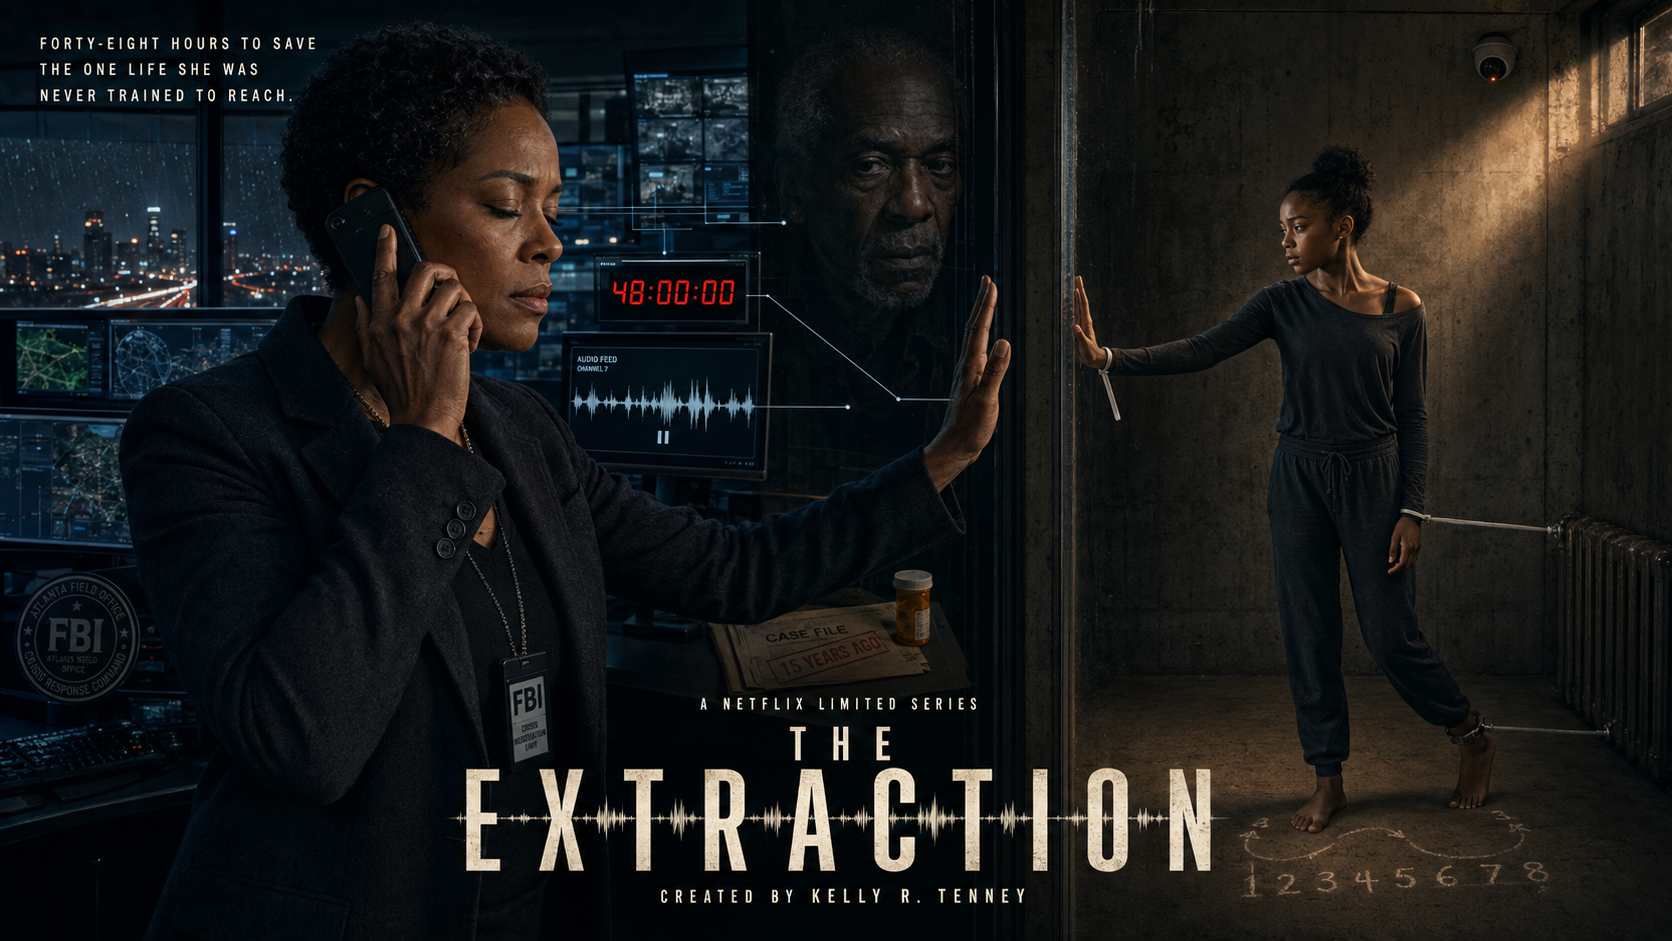
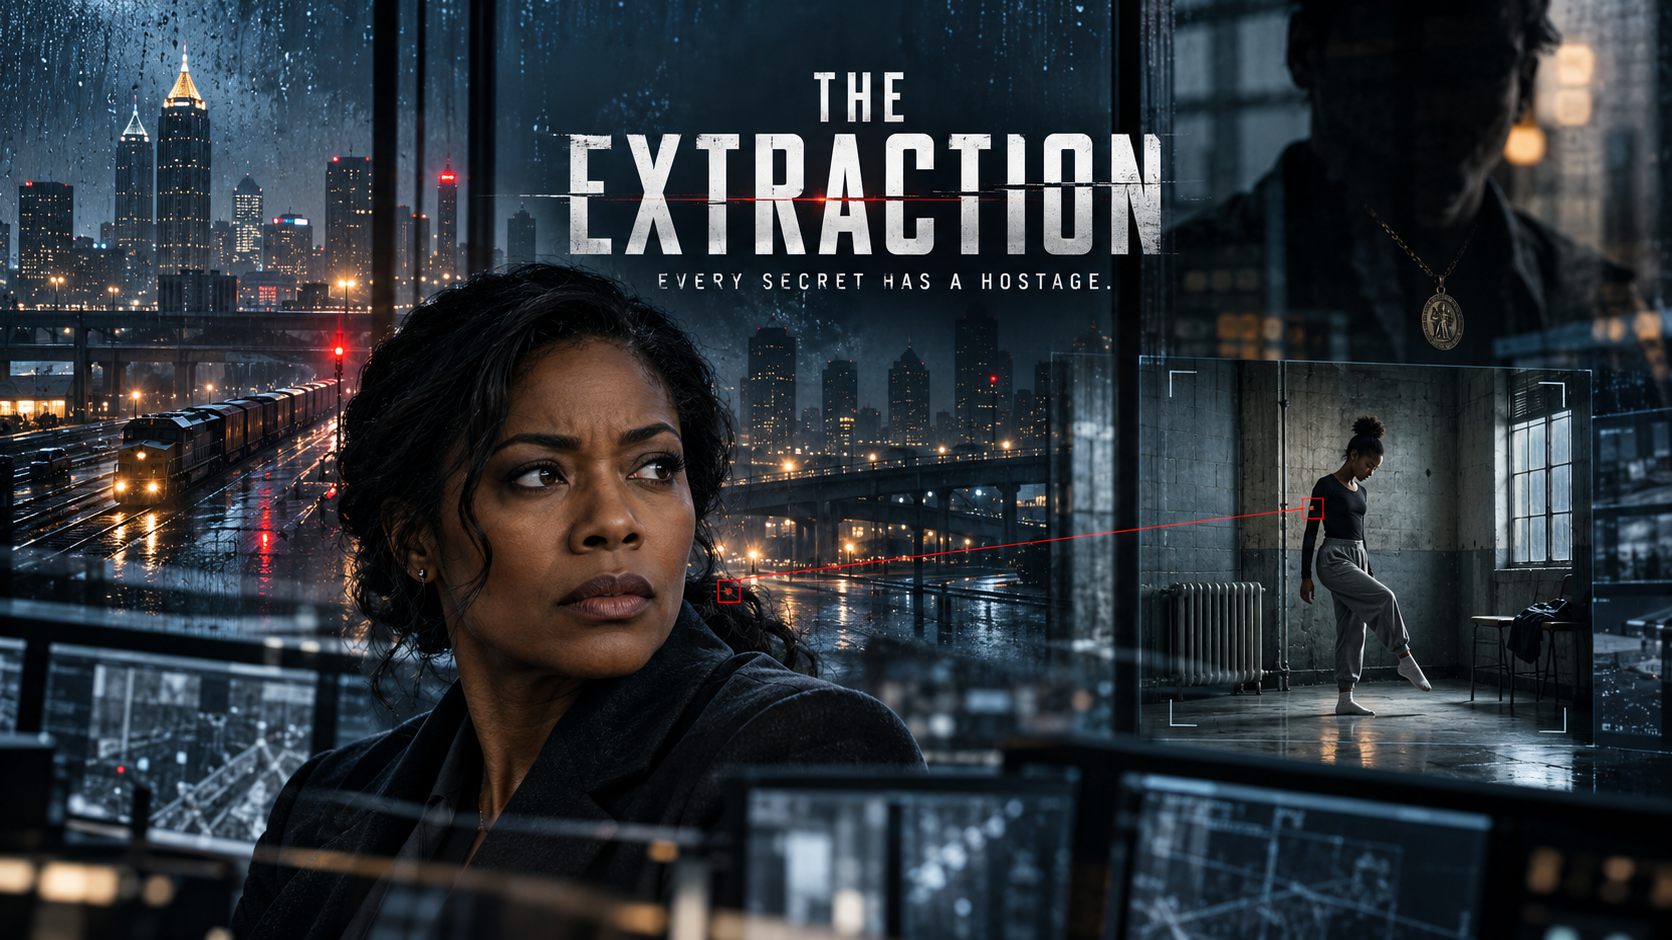
Add project poster artwork

diff --git a/slate.html b/slate.html
@@ -793,7 +793,7 @@
             <input type="checkbox" class="compare-checkbox" id="cmp-the-extraction" />
             <label class="compare-label" for="cmp-the-extraction" title="Add to compare">&#10003;</label>
           </div>
-          <img src="images/the-extraction-poster.png" alt="The Extraction poster featuring a hostage negotiator and her abducted daughter" loading="lazy" />
+          <img src="images/the-extraction-poster.png" alt="The Extraction poster" loading="lazy" />
         </div>
         <div class="card__body">
           <div class="card__meta"><span class="card__genre">Psychological Thriller</span><span class="card__meta-sep"></span><span class="card__format">Limited Series</span></div>
@@ -1646,12 +1646,12 @@
       </article>
 
       <article class="project-card" data-title="Fort Silence" data-platform="premium-streaming,specialty-feature" data-format="feature" data-genre="military-investigative-thriller" data-status="development" data-priority="3">
-        <div class="card__image-wrap card__image-wrap--ledger">
+        <div class="card__image-wrap">
           <div class="compare-checkbox-wrap">
             <input type="checkbox" class="compare-checkbox" id="cmp-new-2" />
             <label class="compare-label" for="cmp-new-2" title="Add to compare">&#10003;</label>
           </div>
-          <div class="ledger-art"><span>NCCA</span><strong>Fort Silence</strong><small>Original project</small></div>
+          <img src="images/fort-silence-poster.png" alt="Fort Silence poster" loading="lazy" />
         </div>
         <div class="card__body">
           <div class="card__meta"><span class="card__genre">Military Investigative Thriller</span><span class="card__meta-sep"></span><span class="card__format">Feature</span></div>
@@ -1664,12 +1664,12 @@
       </article>
 
       <article class="project-card" data-title="Last Exit on 285" data-platform="bet" data-format="feature" data-genre="action-thriller" data-status="development" data-priority="3">
-        <div class="card__image-wrap card__image-wrap--ledger">
+        <div class="card__image-wrap">
           <div class="compare-checkbox-wrap">
             <input type="checkbox" class="compare-checkbox" id="cmp-new-3" />
             <label class="compare-label" for="cmp-new-3" title="Add to compare">&#10003;</label>
           </div>
-          <div class="ledger-art"><span>NCCA</span><strong>Last Exit on 285</strong><small>Original project</small></div>
+          <img src="images/last-exit-on-285-poster.png" alt="Last Exit on 285 poster" loading="lazy" />
         </div>
         <div class="card__body">
           <div class="card__meta"><span class="card__genre">Action Thriller</span><span class="card__meta-sep"></span><span class="card__format">Feature</span></div>
@@ -1682,12 +1682,12 @@
       </article>
 
       <article class="project-card" data-title="RSVP Clause" data-platform="netflix" data-format="feature" data-genre="romantic-comedy" data-status="development" data-priority="3">
-        <div class="card__image-wrap card__image-wrap--ledger">
+        <div class="card__image-wrap">
           <div class="compare-checkbox-wrap">
             <input type="checkbox" class="compare-checkbox" id="cmp-new-4" />
             <label class="compare-label" for="cmp-new-4" title="Add to compare">&#10003;</label>
           </div>
-          <div class="ledger-art"><span>NCCA</span><strong>RSVP Clause</strong><small>Original project</small></div>
+          <img src="images/rsvp-clause-poster.png" alt="RSVP Clause poster" loading="lazy" />
         </div>
         <div class="card__body">
           <div class="card__meta"><span class="card__genre">Romantic Comedy</span><span class="card__meta-sep"></span><span class="card__format">Feature</span></div>
@@ -1718,12 +1718,12 @@
       </article>
 
       <article class="project-card" data-title="The Cookout Confession" data-platform="bet,hbo,hulu" data-format="feature" data-genre="ensemble-dramedy" data-status="development" data-priority="3">
-        <div class="card__image-wrap card__image-wrap--ledger">
+        <div class="card__image-wrap">
           <div class="compare-checkbox-wrap">
             <input type="checkbox" class="compare-checkbox" id="cmp-new-6" />
             <label class="compare-label" for="cmp-new-6" title="Add to compare">&#10003;</label>
           </div>
-          <div class="ledger-art"><span>NCCA</span><strong>The Cookout Confession</strong><small>Original project</small></div>
+          <img src="images/the-cookout-confession-poster.png" alt="The Cookout Confession poster" loading="lazy" />
         </div>
         <div class="card__body">
           <div class="card__meta"><span class="card__genre">Ensemble Dramedy</span><span class="card__meta-sep"></span><span class="card__format">Feature</span></div>
@@ -1736,12 +1736,12 @@
       </article>
 
       <article class="project-card" data-title="The Layover" data-platform="tv-one,bet" data-format="mow" data-genre="locked-room-suspense-thriller" data-status="development" data-priority="3">
-        <div class="card__image-wrap card__image-wrap--ledger">
+        <div class="card__image-wrap">
           <div class="compare-checkbox-wrap">
             <input type="checkbox" class="compare-checkbox" id="cmp-new-7" />
             <label class="compare-label" for="cmp-new-7" title="Add to compare">&#10003;</label>
           </div>
-          <div class="ledger-art"><span>NCCA</span><strong>The Layover</strong><small>Original project</small></div>
+          <img src="images/the-layover-poster.png" alt="The Layover poster" loading="lazy" />
         </div>
         <div class="card__body">
           <div class="card__meta"><span class="card__genre">Locked-Room Suspense Thriller</span><span class="card__meta-sep"></span><span class="card__format">MOW</span></div>
@@ -1754,12 +1754,12 @@
       </article>
 
       <article class="project-card" data-title="The Perfect Assistant" data-platform="bet,lifetime,tv-one,allblk,tubi" data-format="feature" data-genre="psychological-thriller" data-status="development" data-priority="3">
-        <div class="card__image-wrap card__image-wrap--ledger">
+        <div class="card__image-wrap">
           <div class="compare-checkbox-wrap">
             <input type="checkbox" class="compare-checkbox" id="cmp-new-8" />
             <label class="compare-label" for="cmp-new-8" title="Add to compare">&#10003;</label>
           </div>
-          <div class="ledger-art"><span>NCCA</span><strong>The Perfect Assistant</strong><small>Original project</small></div>
+          <img src="images/the-perfect-assistant-poster.png" alt="The Perfect Assistant poster" loading="lazy" />
         </div>
         <div class="card__body">
           <div class="card__meta"><span class="card__genre">Psychological Thriller</span><span class="card__meta-sep"></span><span class="card__format">Feature</span></div>

diff --git a/projects-data.js b/projects-data.js
@@ -950,7 +950,8 @@ const projectsData = [
     "platforms": [
       "Premium Streaming",
       "Specialty Feature"
-    ]
+    ],
+    "image": "images/fort-silence-poster.png"
   },
   {
     "title": "Last Exit on 285",
@@ -961,7 +962,8 @@ const projectsData = [
     "deck": "pitch-decks/last-exit-on-285-pitch-deck.pptx",
     "platforms": [
       "BET+"
-    ]
+    ],
+    "image": "images/last-exit-on-285-poster.png"
   },
   {
     "title": "RSVP Clause",
@@ -973,7 +975,8 @@ const projectsData = [
     "onesheet": "one-sheets/rsvp-clause-one-pager-and-cast.pdf",
     "platforms": [
       "Netflix"
-    ]
+    ],
+    "image": "images/rsvp-clause-poster.png"
   },
   {
     "title": "The 13th Passenger",
@@ -998,7 +1001,8 @@ const projectsData = [
       "BET+",
       "HBO",
       "Hulu"
-    ]
+    ],
+    "image": "images/the-cookout-confession-poster.png"
   },
   {
     "title": "The Layover",
@@ -1011,7 +1015,8 @@ const projectsData = [
     "platforms": [
       "TV One",
       "BET+"
-    ]
+    ],
+    "image": "images/the-layover-poster.png"
   },
   {
     "title": "The Perfect Assistant",
@@ -1026,7 +1031,8 @@ const projectsData = [
       "TV One",
       "ALLBLK",
       "Tubi"
-    ]
+    ],
+    "image": "images/the-perfect-assistant-poster.png"
   },
   {
     "title": "Standby",

diff --git a/projects/the-perfect-assistant.html b/projects/the-perfect-assistant.html
@@ -9,7 +9,7 @@
   <meta property="og:title" content="The Perfect Assistant — NCCA Entertainment"/>
   <meta property="og:description" content="When an Atlanta fashion founder hires an assistant who anticipates her every need, the young woman’s growing access exposes a secret tied to her late father and forces the founder to confront the family history she has spent her life avoiding."/>
   <meta property="og:type" content="website"/>
-  <meta property="og:image" content="../images/og-preview.png"/>
+  <meta property="og:image" content="../images/the-perfect-assistant-poster.png"/>
 
   <link rel="icon" href="../favicon.ico" type="image/x-icon">
   <link rel="icon" type="image/png" sizes="32x32" href="../favicon-32x32.png">
@@ -432,7 +432,7 @@
   </div>
 
   <section class="project-hero">
-    <div class="project-hero-bg" style="background-image:url('../images/og-preview.png')"></div>
+    <div class="project-hero-bg" style="background-image:url('../images/the-perfect-assistant-poster.png')"></div>
     <div class="project-hero-content">
       <h1>The Perfect Assistant</h1>
       <div class="project-meta">

diff --git a/projects/last-exit-on-285.html b/projects/last-exit-on-285.html
@@ -9,7 +9,7 @@
   <meta property="og:title" content="Last Exit on 285 — NCCA Entertainment"/>
   <meta property="og:description" content="An ex-Army MP driving Atlanta’s Perimeter for rideshare money picks up a bookkeeper fleeing a trafficking ring. When the man running it kidnaps her daughter, she must confront the trauma that ended her military career and get them out before dawn."/>
   <meta property="og:type" content="website"/>
-  <meta property="og:image" content="../images/og-preview.png"/>
+  <meta property="og:image" content="../images/last-exit-on-285-poster.png"/>
 
   <link rel="icon" href="../favicon.ico" type="image/x-icon">
   <link rel="icon" type="image/png" sizes="32x32" href="../favicon-32x32.png">
@@ -432,7 +432,7 @@
   </div>
 
   <section class="project-hero">
-    <div class="project-hero-bg" style="background-image:url('../images/og-preview.png')"></div>
+    <div class="project-hero-bg" style="background-image:url('../images/last-exit-on-285-poster.png')"></div>
     <div class="project-hero-content">
       <h1>Last Exit on 285</h1>
       <div class="project-meta">

diff --git a/projects/the-cookout-confession.html b/projects/the-cookout-confession.html
@@ -9,7 +9,7 @@
   <meta property="og:title" content="The Cookout Confession — NCCA Entertainment"/>
   <meta property="og:description" content="On the day she plans to end her marriage in front of her oldest friends, a woman’s hunt for her husband’s mistress forces five women to confess the secrets they have been keeping from each other before the sun goes down."/>
   <meta property="og:type" content="website"/>
-  <meta property="og:image" content="../images/og-preview.png"/>
+  <meta property="og:image" content="../images/the-cookout-confession-poster.png"/>
 
   <link rel="icon" href="../favicon.ico" type="image/x-icon">
   <link rel="icon" type="image/png" sizes="32x32" href="../favicon-32x32.png">
@@ -432,7 +432,7 @@
   </div>
 
   <section class="project-hero">
-    <div class="project-hero-bg" style="background-image:url('../images/og-preview.png')"></div>
+    <div class="project-hero-bg" style="background-image:url('../images/the-cookout-confession-poster.png')"></div>
     <div class="project-hero-content">
       <h1>The Cookout Confession</h1>
       <div class="project-meta">

diff --git a/projects/the-layover.html b/projects/the-layover.html
@@ -9,7 +9,7 @@
   <meta property="og:title" content="The Layover — NCCA Entertainment"/>
   <meta property="og:description" content="During a historic Atlanta ice storm, five Black women trapped beneath the airport turn on one another when a federal witness’s deadly secret surfaces and a carbon monoxide leak leaves them forty-five minutes to decide who deserves to escape."/>
   <meta property="og:type" content="website"/>
-  <meta property="og:image" content="../images/og-preview.png"/>
+  <meta property="og:image" content="../images/the-layover-poster.png"/>
 
   <link rel="icon" href="../favicon.ico" type="image/x-icon">
   <link rel="icon" type="image/png" sizes="32x32" href="../favicon-32x32.png">
@@ -432,7 +432,7 @@
   </div>
 
   <section class="project-hero">
-    <div class="project-hero-bg" style="background-image:url('../images/og-preview.png')"></div>
+    <div class="project-hero-bg" style="background-image:url('../images/the-layover-poster.png')"></div>
     <div class="project-hero-content">
       <h1>The Layover</h1>
       <div class="project-meta">

diff --git a/projects/fort-silence.html b/projects/fort-silence.html
@@ -9,7 +9,7 @@
   <meta property="og:title" content="Fort Silence — NCCA Entertainment"/>
   <meta property="og:description" content="When a young soldier dies at Fort Stewart, CID agent Jordan Hayes finds the hidden experiment that killed her father twenty years earlier and must defy the commander who raised her before another private becomes a closed case."/>
   <meta property="og:type" content="website"/>
-  <meta property="og:image" content="../images/og-preview.png"/>
+  <meta property="og:image" content="../images/fort-silence-poster.png"/>
 
   <link rel="icon" href="../favicon.ico" type="image/x-icon">
   <link rel="icon" type="image/png" sizes="32x32" href="../favicon-32x32.png">
@@ -432,7 +432,7 @@
   </div>
 
   <section class="project-hero">
-    <div class="project-hero-bg" style="background-image:url('../images/og-preview.png')"></div>
+    <div class="project-hero-bg" style="background-image:url('../images/fort-silence-poster.png')"></div>
     <div class="project-hero-content">
       <h1>Fort Silence</h1>
       <div class="project-meta">

diff --git a/projects/rsvp-clause.html b/projects/rsvp-clause.html
@@ -9,7 +9,7 @@
   <meta property="og:title" content="RSVP Clause — NCCA Entertainment"/>
   <meta property="og:description" content="To survive planning her ex-fiancé’s wedding and her family’s relentless matchmaking, a meticulous Chicago wedding planner signs a no-love pact with a commitment-averse designer, only to find their fake dates becoming real."/>
   <meta property="og:type" content="website"/>
-  <meta property="og:image" content="../images/og-preview.png"/>
+  <meta property="og:image" content="../images/rsvp-clause-poster.png"/>
 
   <link rel="icon" href="../favicon.ico" type="image/x-icon">
   <link rel="icon" type="image/png" sizes="32x32" href="../favicon-32x32.png">
@@ -432,7 +432,7 @@
   </div>
 
   <section class="project-hero">
-    <div class="project-hero-bg" style="background-image:url('../images/og-preview.png')"></div>
+    <div class="project-hero-bg" style="background-image:url('../images/rsvp-clause-poster.png')"></div>
     <div class="project-hero-content">
       <h1>RSVP Clause</h1>
       <div class="project-meta">
